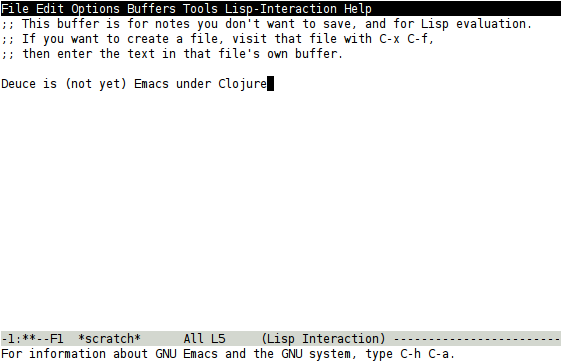
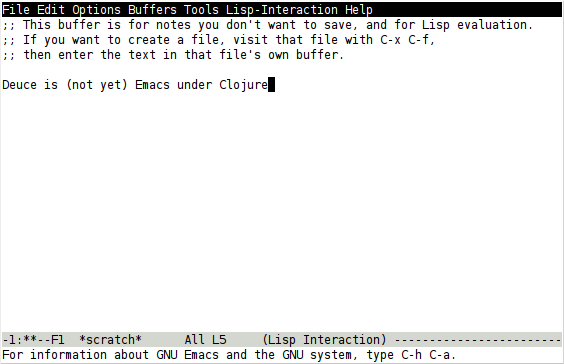
Border in image instead

Changed region(s): [[0.0, 0.0, 0.9377, 0.1823], [0.0, 0.0, 1.0, 1.0], [0.0, 0.2127, 0.484, 0.2735]]

diff --git a/README.md b/README.md
@@ -12,7 +12,7 @@ Also - there's a risk I'll give up, far before reaching the current benchmark of
 
 **Deuce is a re-implementation of Emacs in Clojure.** It's a port of the C core and re-compiles existing Emacs Lisp to Clojure. It uses the Lanterna library for text UI. The goal is to first reach reasonable compatibility with GNU Emacs, while the longer term goal is to phase out Emacs Lisp in favour for Clojure and re-capture Emacs' spirit on a contemporary platform.
 
-<img width="562" style="border: 1px solid lightgray;" src=https://github.com/hraberg/deuce/raw/master/screenshots/deuce-scratch.png alt="Deuce is (not yet) Emacs under Clojure - *scratch*" title="Deuce is (not yet) Emacs under Clojure - *scratch*" />
+<img width="562" src=https://github.com/hraberg/deuce/raw/master/screenshots/deuce-scratch.png alt="Deuce is (not yet) Emacs under Clojure - *scratch*" title="Deuce is (not yet) Emacs under Clojure - *scratch*" />
 
 [Talk](http://skillsmatter.com/podcast/scala/deuce-is-not-yet-emacs-under-clojure) at [Skills Matter](http://skillsmatter.com/) London, 2013-06-04 | [Slides](http://hraberg.github.io/deuce/skillsmatter/?full)
 
